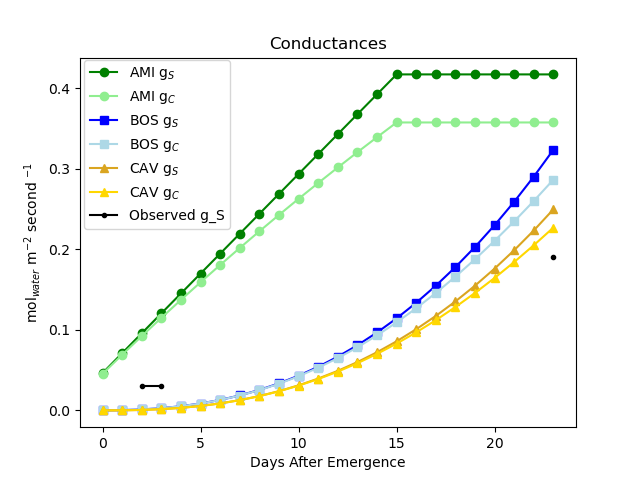
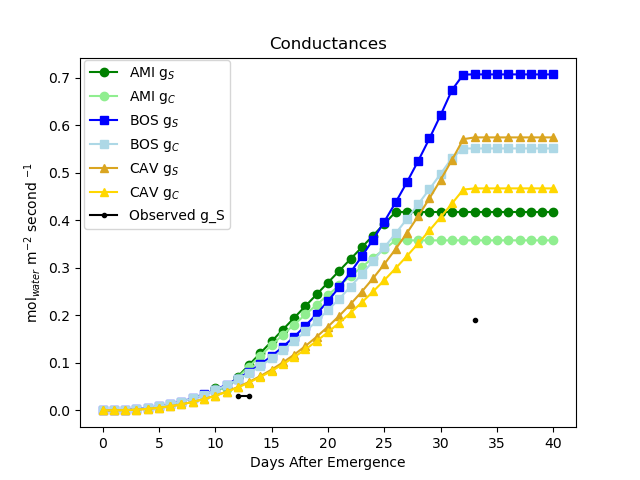
AMI offest and new charts to match!

diff --git a/ABC Comp file.py b/ABC Comp file.py
@@ -22,10 +22,11 @@ NC_FR = 0.034       # Hanford 2004 table 4.2.10, ugh boscheri just state the num
 OPF = 1.08          # Oxygen production fraction ewert table 4-113
 g_A = 2.5           # atmospheric aerodynamic conductance boscheri "for horizontal canopies"
 t_D = 1             # 1 for green, 8 for red initial time of development(days) Amirtrano 2020 CQY experiments
+T_T = 10            # time to transplant for amitranos model in days
 t_Mi = 16           # initial time of maturity (days) Amitrano 2020 table 2
-t_M = 30            # time at harvest/maturity ewert table 4-112
+t_M = 50            # time at harvest/maturity ewert table 4-112
 t_E = 1             # time at onset of organ formation ewert table 4-112
-t_Q = 50            # days onset of senescence placeholder value ewert table 4-112
+t_Q = 55            # days onset of senescence placeholder value ewert table 4-112
 D_PG = 24           # the plants diurnal cycle length assumed 24 in cavazzoni 2001
 MW_O2 = 31.9988     # molecular weight of O2 boscheri table 4
 MW_CO2 = 44.010     # molecular weight of CO2 boscheri table 4
@@ -232,6 +233,15 @@ TEB = 8.53                               # this is the only way I could make it 
 edible_mat = np.zeros(ts_to_harvest+1)   # matrix for TEB storage
 day = 0
 
+t = 0
+while t < T_T:
+    dfts = pd.DataFrame({
+        'AMI_Timestep': [t],
+        'Day': [day]})
+    df_AMI_records = pd.concat([df_AMI_records, dfts], ignore_index=True) # this adds the timestep dataframe to the historical values dataframe
+    t += res
+    day += 1
+t=0
 while t <= ts_to_harvest:                  # while time is less than harvest time
     if t<= t_D:                            # if timestep is before formation of edible organs
         alpha = amin_GN                    # amitrano 2020 eq 15
@@ -284,7 +294,7 @@ while t <= ts_to_harvest:                  # while time is less than harvest tim
     t += res                         # advance timestep
     day += 1
     i += 1                           # increase matrix index counter
-
+# print(df_AMI_records)
 df_AMI_records.to_csv('C:/Users/donal/Documents/Github/Modified-Energy-Cascade/MEC_AMI_OUT_comp.csv') # exports final data frame to a CSV
 print('Exported Amitrano Data')
 
@@ -389,6 +399,7 @@ while t < ts_to_harvest:                 # while time is less than harvest time
 
 df_CAV_records.to_csv('C:/Users/donal/Documents/Github/Modified-Energy-Cascade/MEC_CAV_OUT_comp.csv') # exports final data frame to a CSV
 print('Exported Cavazzoni Data')
+print(day)
 
 '''#############################################################################
    ############################ BOSCHERI MODEL CODE ###########################
@@ -544,10 +555,15 @@ print('Beginning Comparisons')
 #################################################
 
 ami =     pd.read_csv("C:/Users/donal/Documents/Github/Modified-Energy-Cascade/MEC_AMI_OUT_comp.csv")
+print(ami[['Day']])
 bos_tot = pd.read_csv("C:/Users/donal/Documents/Github/Modified-Energy-Cascade/BOS_OUT_TOT_comp.csv")
+print(bos_tot[['Day']])
 bos_avg = pd.read_csv("C:/Users/donal/Documents/Github/Modified-Energy-Cascade/BOS_OUT_AVG_comp.csv")
+print(bos_avg[['Day']])
 cav =     pd.read_csv("C:/Users/donal/Documents/Github/Modified-Energy-Cascade/MEC_CAV_OUT_comp.csv")
+print(cav[['Day']])
 obs =     pd.read_csv("C:/Users/donal/Documents/Github/Modified-Energy-Cascade/MEC_GN_OBSV_comp.csv")
+print(obs[['Day']])
 
 print('Data Imported')
 bigdf =   pd.merge(pd.merge(pd.merge(pd.merge(bos_avg, bos_tot, on='Day'), ami, on='Day'), cav, on='Day'), obs, on='Day')
@@ -555,14 +571,16 @@ bigdf.to_csv('C:/Users/donal/Documents/Github/Modified-Energy-Cascade/ABC_comp.c
 print(bigdf)
 print('Dataframes Merged')
 
+print(bigdf[['Day']])
+
 ''' AMI= green colors or 'o'
      BOS= blue colors or 's'
      CAV= yelllow colors or '^'  '''
-##################################################
-###############   Start Charting  ################
-##################################################
+#################################################
+##############   Start Charting  ################
+#################################################
 
-####### Alpha and Beta Comparison ##############
+###### Alpha and Beta Comparison ##############
 fig, ax = plt.subplots()
 ax.plot(bigdf['Day'], bigdf['AMI_alpha'],       marker='o', color='lightgreen',     label='AMI α')
 ax.plot(bigdf['Day'], bigdf['AMI_beta'],        marker='o', color='green',          label='AMI β')
@@ -578,7 +596,7 @@ plt.savefig('C:/Users/donal/Documents/GitHub/Modified-Energy-Cascade/Comparison 
 plt.show()
 
 
-###################### A, CQY, CUE, ###################################
+##################### A, CQY, CUE, ###################################
 fig, ax = plt.subplots()
 ax.plot(bigdf['Day'], bigdf['BOS_AVG_A'],      marker='s', color='lightblue',  label='BOS A')
 ax.plot(bigdf['Day'], bigdf['CAV_A'],          marker='^', color='gold',       label='CAV A')
@@ -597,7 +615,7 @@ plt.title('A CUE CQY Comparison')
 plt.savefig('C:/Users/donal/Documents/GitHub/Modified-Energy-Cascade/Comparison Charts/A_CUE_CQY_Comparison.png', bbox_inches='tight') #there are many options for savefig
 plt.show()
 
-################ Conductances #########################
+############### Conductances #########################
 fig, ax = plt.subplots()
 ax.plot(bigdf['Day'], bigdf['AMI_g_S'],     marker='o', color='green',      label='AMI g$_S$')
 ax.plot(bigdf['Day'], bigdf['AMI_g_C'],     marker='o', color='lightgreen', label='AMI g$_C$')
@@ -613,7 +631,7 @@ plt.title('Conductances')
 plt.savefig('C:/Users/donal/Documents/GitHub/Modified-Energy-Cascade/Comparison Charts/Conductances_Comparison.png') #there are many options for savefig
 plt.show()
 
-################## Gas Exchanges ######################
+################# Gas Exchanges ######################
 fig, ax= plt.subplots()
 ax.plot(bigdf['Day'], bigdf['AMI_DTR'],     marker='o', color='darkgreen',   label='AMI DTR')
 ax.plot(bigdf['Day'], bigdf['BOS_AVG_DTR'], marker='s', color='green',       label='BOS DTR')
@@ -627,7 +645,7 @@ plt.savefig('C:/Users/donal/Documents/GitHub/Modified-Energy-Cascade/Comparison 
 plt.show()
 
 
-################ Photosynthesis #####################
+############### Photosynthesis #####################
 fig, ax = plt.subplots()
 ax.plot(bigdf['Day'], bigdf['AMI_P_GROSS'],     marker='o', color='green',      label='AMI P$_{GROSS}$')
 ax.plot(bigdf['Day'], bigdf['AMI_P_NET'],       marker='o', color='lightgreen', label='AMI P$_{NET}$')
@@ -642,7 +660,7 @@ plt.title('Photosynthesis')
 plt.savefig('C:/Users/donal/Documents/GitHub/Modified-Energy-Cascade/Comparison Charts/Photosynthesis_Comparison.png') #there are many options for savefig
 plt.show()
 
-##################### Daily Carbon Gain ###################################
+#################### Daily Carbon Gain ###################################
 fig, ax = plt.subplots()
 ax.plot(bigdf['Day'], bigdf['AMI_DCG'],      marker='o', color='green',      label='AMI DCG')
 ax.plot(bigdf['Day'], bigdf['BOS_TOT_DCG'],  marker='s', color='blue',       label='BOS DCG')
@@ -654,7 +672,7 @@ plt.title('Daily Carbon Gain')
 plt.savefig('C:/Users/donal/Documents/GitHub/Modified-Energy-Cascade/Comparison Charts/DCG_Comparison.png') #there are many options for savefig
 plt.show()
 
-#################### Crop Productivity ###################################
+################### Crop Productivity ###################################
 fig, ax = plt.subplots()
 ax.plot(bigdf['Day'], bigdf['AMI_TEB'],      marker='o', color='darkgreen',  label='AMI TEB')
 ax.plot(bigdf['Day'], bigdf['CAV_TEB'],      marker='^', color='green',      label='CAV TEB')

diff --git a/Amitrano/Amitrano MEC.py b/Amitrano/Amitrano MEC.py
@@ -23,7 +23,7 @@ PPFD = 314.54       # found at Amitrano 2020 table 2 but used decimal value in G
 CO2 = 370           # value used in Amitranos excel
 H = 12              # Amitrano 2020 table 2
 T_LIGHT = 24        # placeholder value
-T_T = 10
+T_T = 10            # days to transplant, based on experimental design
 
 ##################################################
 ################# INTIALIZATION  #################
@@ -161,7 +161,6 @@ while t <= ts_to_harvest:                  # while time is less than harvest tim
     t += res                         # advance timestep
     i += 1                           # increase matrix index counter
     l += 1                           # dang temp data counter
-    print(t,'post transplant')
 
 print(df_records)       # Prints entire dataframe
 # print(df_records[['Timestep', 'g_S', 'g_C', 'DTR']])                    # prints specific columns
